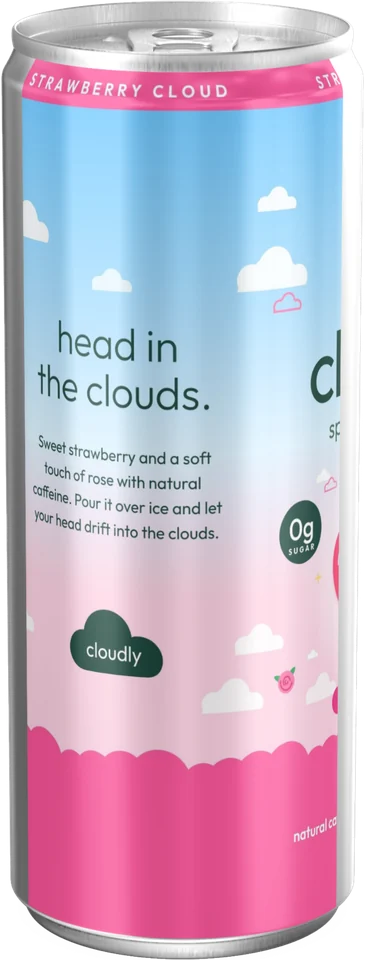
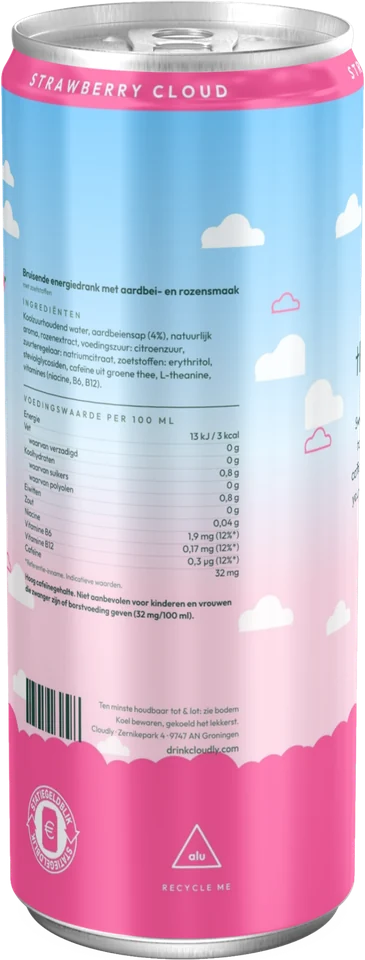
360° viewer: 16 new full-wrap renders (22.5° steps)
Claude-Session: https://claude.ai/code/session_015Aff97EdtKyYaoNHtg5nGv

diff --git a/public/index.html b/public/index.html
@@ -1079,31 +1079,31 @@ footer p { margin: 0; color: var(--ink); font-size: 14px }
   const INGR = { grapefruit: 'Sparkling water, strawberry juice (4%), natural flavouring, rose extract, acid: citric acid, acidity regulator: sodium citrate, sweeteners: erythritol, steviol glycosides, caffeine from green tea, L-theanine, vitamins (niacin, B6, B12).',
     peach: 'Sparkling water, acid: citric acid, acidity regulator: sodium citrate, taurine, natural flavouring, sweeteners: erythritol, steviol glycosides, caffeine from green tea, L-theanine, thickener: xanthan gum, vitamins (niacin, pantothenic acid, B6, B12).',
     mint: 'Sparkling water, cherry juice (5%), natural flavouring, acids: citric acid, malic acid, acidity regulator: sodium citrate, sweeteners: erythritol, steviol glycosides, caffeine from green tea, L-theanine, vitamins (niacin, B6, B12).' };
-  /* 360° turntable: 8 real renders, 45° apart, eased crossfade */
+  /* 360° turntable: 16 real renders, 22.5° apart, eased crossfade */
   function cloudSpin(el, base) {
-    const N = 8, imgs = [];
+    const N = 16, imgs = [];
     el.innerHTML = '<div class="sh"></div><div class="hint"><svg width="14" height="14" viewBox="0 0 24 24" fill="none" stroke="currentColor" stroke-width="2.4" stroke-linecap="round" stroke-linejoin="round"><path d="M3 12a9 9 0 0 1 15-6.7L21 8M21 3v5h-5M21 12a9 9 0 0 1-15 6.7L3 16M3 21v-5h5"/></svg>drag to spin</div>';
     for (let i = 0; i < N; i++) { const im = new Image(); im.alt = i ? '' : 'Cloudly Strawberry Cloud can, 360° view'; im.decoding = 'async'; im.draggable = false; im.src = base + String(i).padStart(2, '0') + '.webp'; el.appendChild(im); imgs.push(im); }
     const still = matchMedia('(prefers-reduced-motion: reduce)').matches;
     let pos = 0, vel = 0, drag = null, idleUntil = 0, raf = 0, last = 0, vis = true;
-    const ease = f => f < .32 ? 0 : f > .68 ? 1 : (f - .32) / .36;
+    const ease = f => f < .3 ? 0 : f > .7 ? 1 : (f - .3) / .4;
     function paint() {
-      const p = ((pos % N) + N) % N, i = Math.floor(p), j = (i + 1) % N, f = drag ? p - i : ease(p - i);
+      const p = ((pos % N) + N) % N, i = Math.floor(p), j = (i + 1) % N, f = ease(p - i);
       imgs.forEach((im, k) => { im.style.opacity = k === i ? 1 : k === j ? f : 0; im.style.zIndex = k === j ? 2 : 1; });
     }
     function tick(t) {
       const dt = Math.min(.05, (t - (last || t)) / 1000); last = t;
       if (!drag) {
         if (Math.abs(vel) > .02) { pos += vel * dt; vel *= Math.pow(.04, dt); }
-        else if (!still && t > idleUntil) pos += .55 * dt;
+        else if (!still && t > idleUntil) pos += 1.1 * dt;
       }
       paint(); raf = vis && el.isConnected ? requestAnimationFrame(tick) : 0;
     }
     el.addEventListener('pointerdown', e => { drag = { x: e.clientX, p: pos, t: e.timeStamp, lx: e.clientX }; vel = 0; el.classList.add('used'); el.setPointerCapture(e.pointerId); });
     el.addEventListener('pointermove', e => {
       if (!drag) return; const w = el.clientWidth || 300, dx = e.clientX - drag.x;
-      pos = drag.p - dx / (w * .09); const dt = Math.max(1, e.timeStamp - drag.t);
-      vel = -(e.clientX - drag.lx) / (w * .09) / (dt / 1000); drag.t = e.timeStamp; drag.lx = e.clientX;
+      pos = drag.p - dx / (w * .06); const dt = Math.max(1, e.timeStamp - drag.t);
+      vel = -(e.clientX - drag.lx) / (w * .06) / (dt / 1000); drag.t = e.timeStamp; drag.lx = e.clientX;
     });
     const up = () => { if (!drag) return; drag = null; vel = Math.max(-12, Math.min(12, vel)); idleUntil = performance.now() + 3500; };
     el.addEventListener('pointerup', up); el.addEventListener('pointercancel', up);
